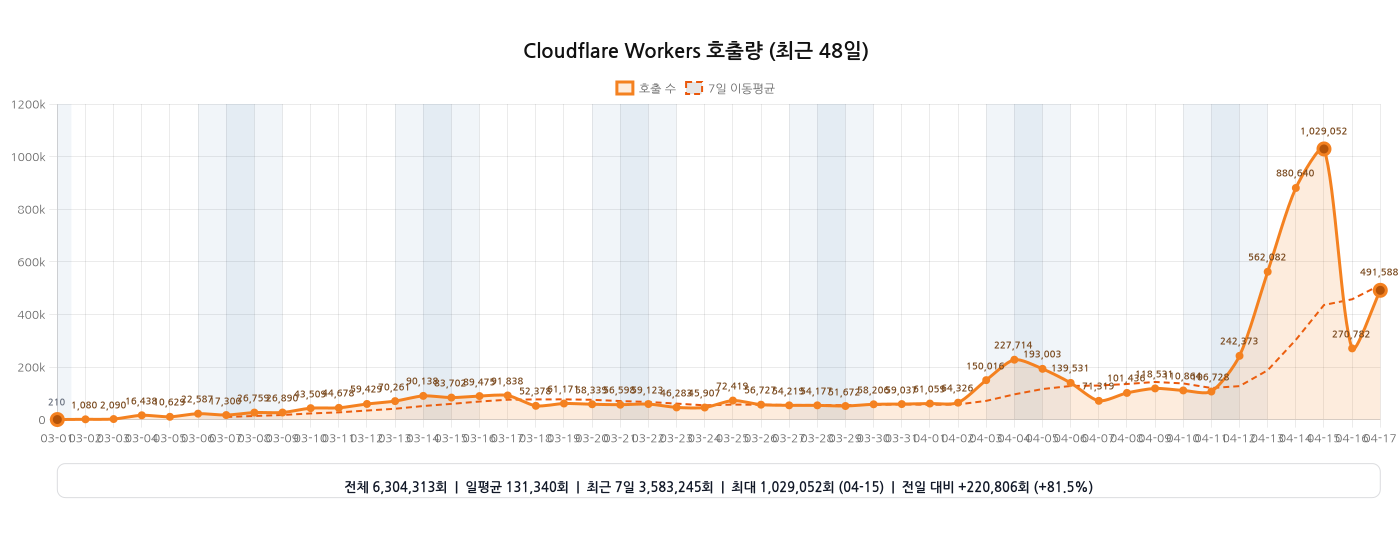
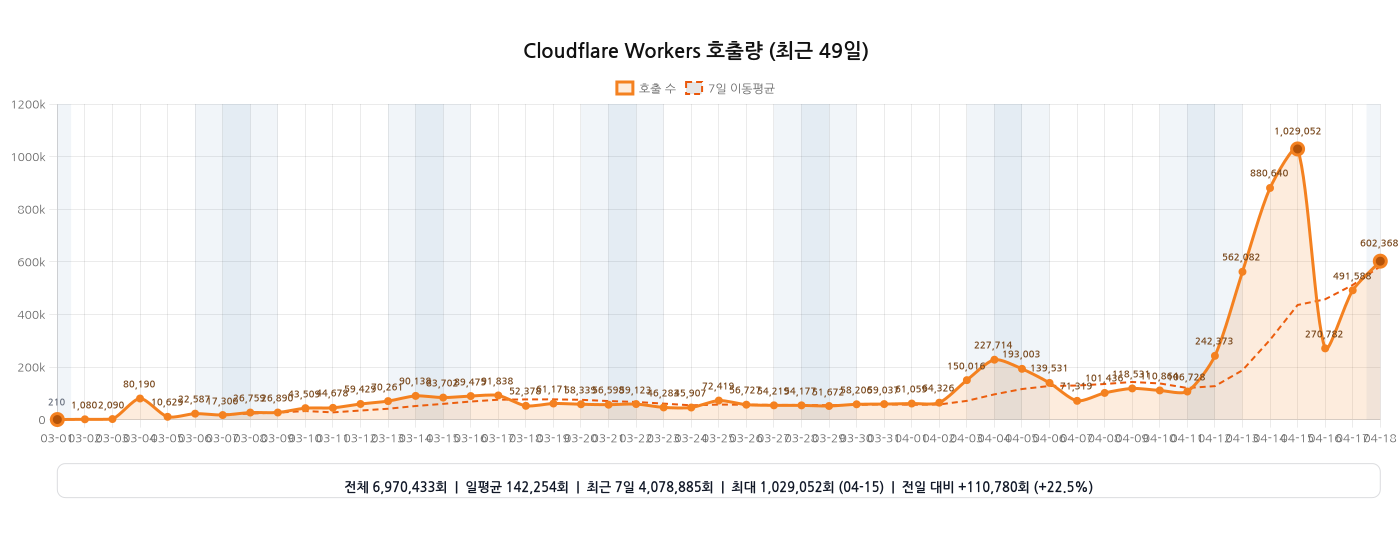
chore: 워커 호출량 그래프 자동 갱신

diff --git a/README.md b/README.md
@@ -18,11 +18,11 @@
 [![Coverage](https://github.com/hmmhmmhm/daiso-mcp/actions/workflows/coverage.yml/badge.svg?branch=main)](https://github.com/hmmhmmhm/daiso-mcp/actions/workflows/coverage.yml)
 
 <!-- WORKERS_INVOCATIONS_CHART:START -->
-<h3>Cloudflare Workers 호출량 (2026-03-01 ~ 2026-04-17, 48일)</h3>
+<h3>Cloudflare Workers 호출량 (2026-03-01 ~ 2026-04-18, 49일)</h3>
 
-<img src="./assets/analytics/workers-invocations.png?v=2026-04-17T15:43:35.539Z" alt="Cloudflare Workers 호출량 그래프 (2026-03-01 ~ 2026-04-17)" width="100%">
+<img src="./assets/analytics/workers-invocations.png?v=2026-04-18T15:34:38.968Z" alt="Cloudflare Workers 호출량 그래프 (2026-03-01 ~ 2026-04-18)" width="100%">
 
-<sub>기준 워커: <code>daiso-mcp</code> · 마지막 갱신: 2026-04-18 00:43 KST</sub>
+<sub>기준 워커: <code>daiso-mcp</code> · 마지막 갱신: 2026-04-19 00:34 KST</sub>
 
 <!-- WORKERS_INVOCATIONS_CHART:END -->
 
